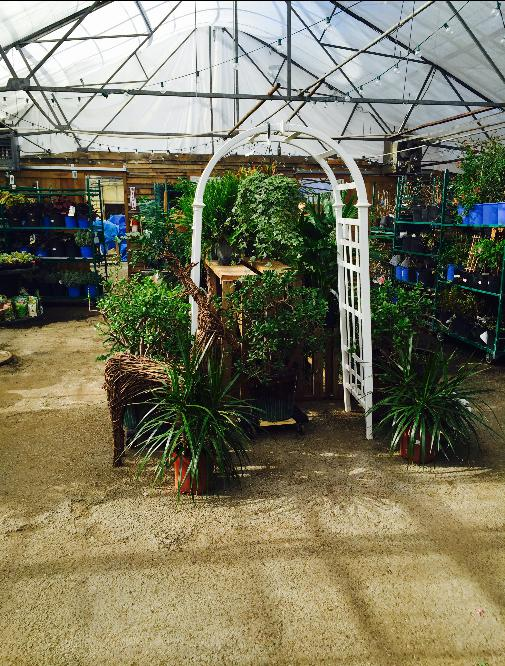
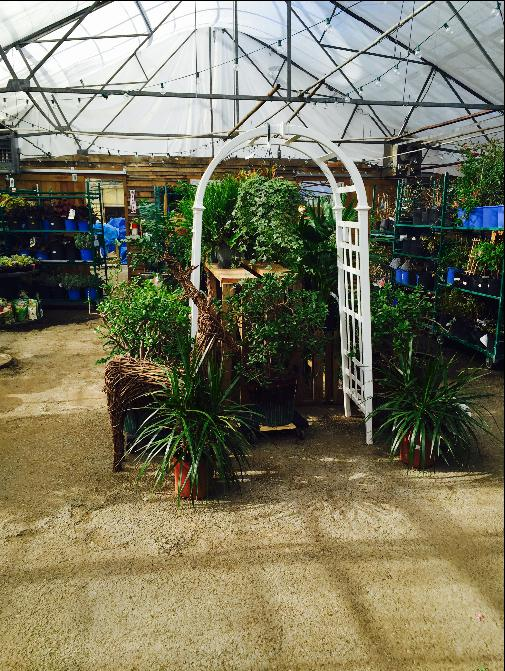
updated readme

diff --git a/templates/index.html b/templates/index.html
@@ -34,7 +34,8 @@ Home
       <br>
       <p class = "text-center" style="width: 700px;"> Example of adding 50 horizontal seams and removing 
         10 vertical seams to an image of Lake Geneva. Red lines visualize added seams
-      and white lines visualize removed seams. </p>
+      and white lines visualize removed seams. Note: the images have been scaled to
+      fit on the page, and are not to scale.</p>
       <br>
     </center>
 

diff --git a/templates/result.html b/templates/result.html
@@ -31,6 +31,8 @@ Result
       </a>
       <br>
       <br>
+      <p>Note: the images have been scaled to fit nicely on the page, 
+        and are not to scale.</p>
       <h4><a href="/">Click here to re-calculate</a></h4>
       </center>
       <br>

diff --git a/README.md b/README.md
@@ -12,3 +12,6 @@ in the same directory on the command line. To then run the code and launch the w
 python3 app.py
 ```
 in the local directory on the command line. Then go to http://127.0.0.1:5000/ on a web browser with app.py still running, and use the application. On the GUI, choose an image you have locally, specify the number of horizontal and vertical seams to either add or subtract as integers, and click "Seam it." When the calculation is finished, another page will open displaying the original image, the result after seam carving, and a visualization of where the seams were either added or subtracted. The result image and visualization will also be saved locally in the static directory, which is in the main directory. Some examples of images we tested and used in our write-up are stored in that directory as well and can be used as examples.
+
+Notes:
+- It is sometimes necessary to clear your browser cache if the same image is seam carved multiple times with a different number of seams. The correct image will be saved to the static directory, but a previous iteration of the image can be displayed on the result page if it is cached.
